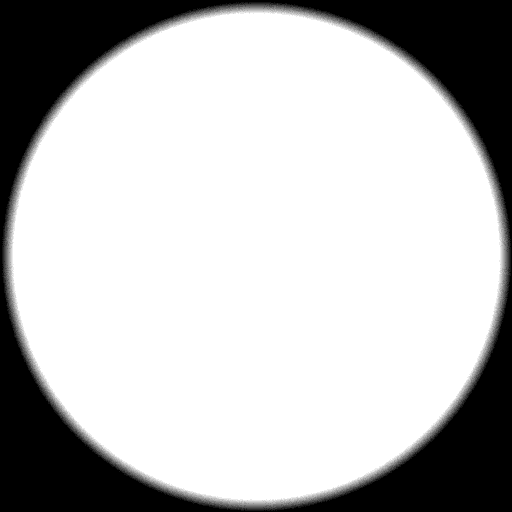
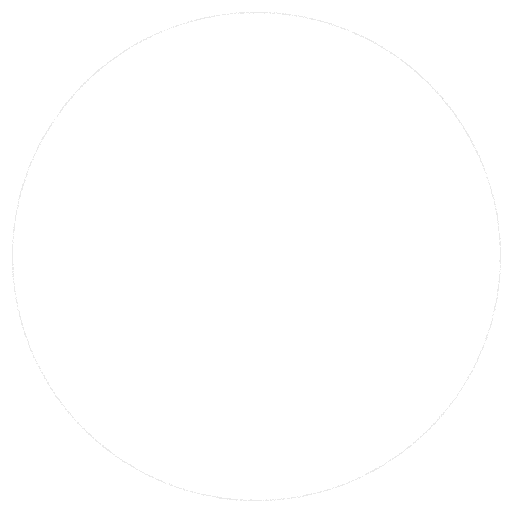
Invert the radarCutoff image and use Sprite.setColor to match bg.

Changed region(s): [[0.0, 0.0, 1.0, 1.0]]

diff --git a/src/screenComponents/radarView.cpp b/src/screenComponents/radarView.cpp
@@ -734,23 +734,24 @@ void GuiRadarView::drawRadarCutoff(sf::RenderTarget& window)
     textureManager.setTexture(cutOff, "radarCutoff.png");
     cutOff.setPosition(radar_screen_center);
     cutOff.setScale(screen_size / float(cutOff.getTextureRect().width) * 2, screen_size / float(cutOff.getTextureRect().width) * 2);
+    cutOff.setColor(colorConfig.background);
     window.draw(cutOff);
 
     sf::RectangleShape rectTop(sf::Vector2f(rect.width, radar_screen_center.y - screen_size - rect.top));
-    rectTop.setFillColor(sf::Color::Black);
+    rectTop.setFillColor(colorConfig.background);
     rectTop.setPosition(rect.left, rect.top);
     window.draw(rectTop);
     sf::RectangleShape rectBottom(sf::Vector2f(rect.width, rect.height - screen_size - (radar_screen_center.y - rect.top)));
-    rectBottom.setFillColor(sf::Color::Black);
+    rectBottom.setFillColor(colorConfig.background);
     rectBottom.setPosition(rect.left, radar_screen_center.y + screen_size);
     window.draw(rectBottom);
 
     sf::RectangleShape rectLeft(sf::Vector2f(radar_screen_center.x - screen_size - rect.left, rect.height));
-    rectLeft.setFillColor(sf::Color::Black);
+    rectLeft.setFillColor(colorConfig.background);
     rectLeft.setPosition(rect.left, rect.top);
     window.draw(rectLeft);
     sf::RectangleShape rectRight(sf::Vector2f(rect.width - screen_size - (radar_screen_center.x - rect.left), rect.height));
-    rectRight.setFillColor(sf::Color::Black);
+    rectRight.setFillColor(colorConfig.background);
     rectRight.setPosition(radar_screen_center.x + screen_size, rect.top);
     window.draw(rectRight);
 }
